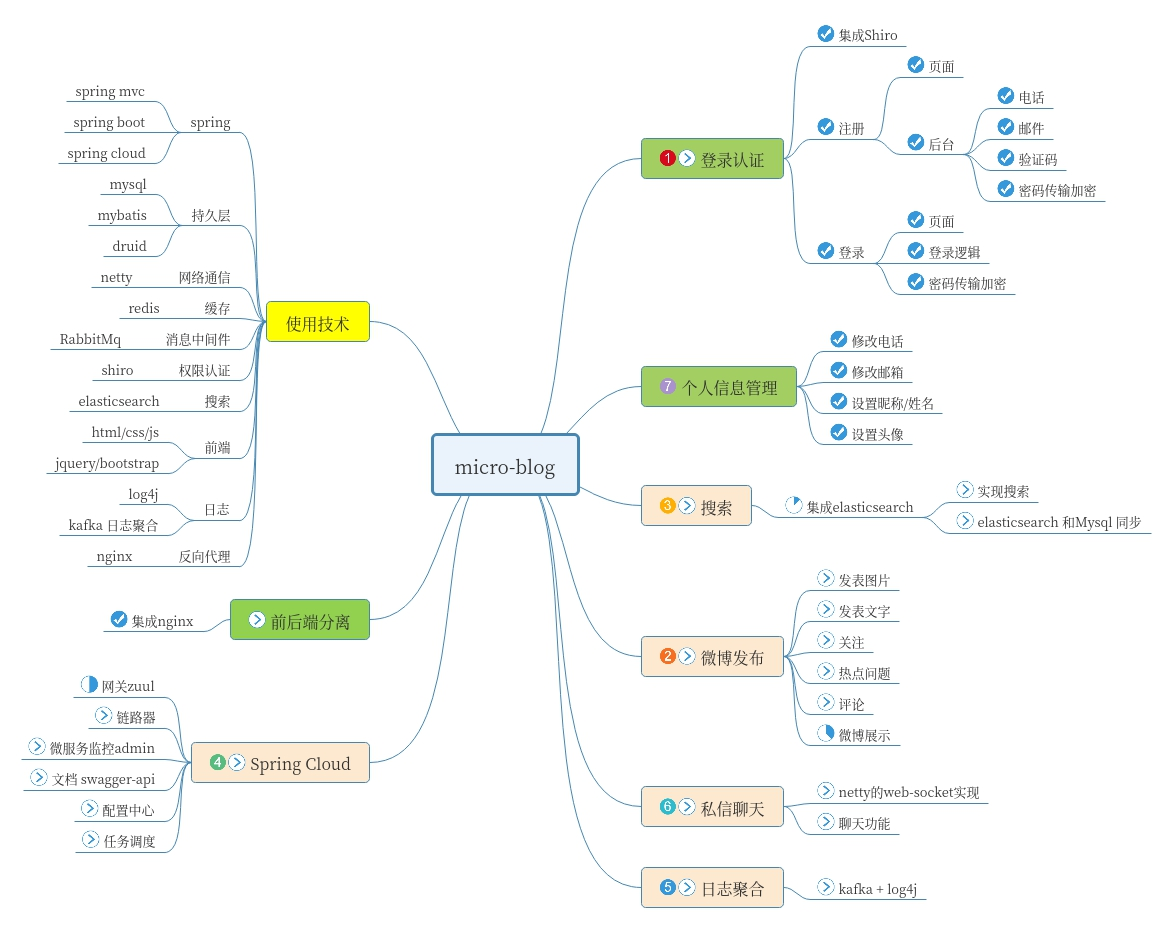
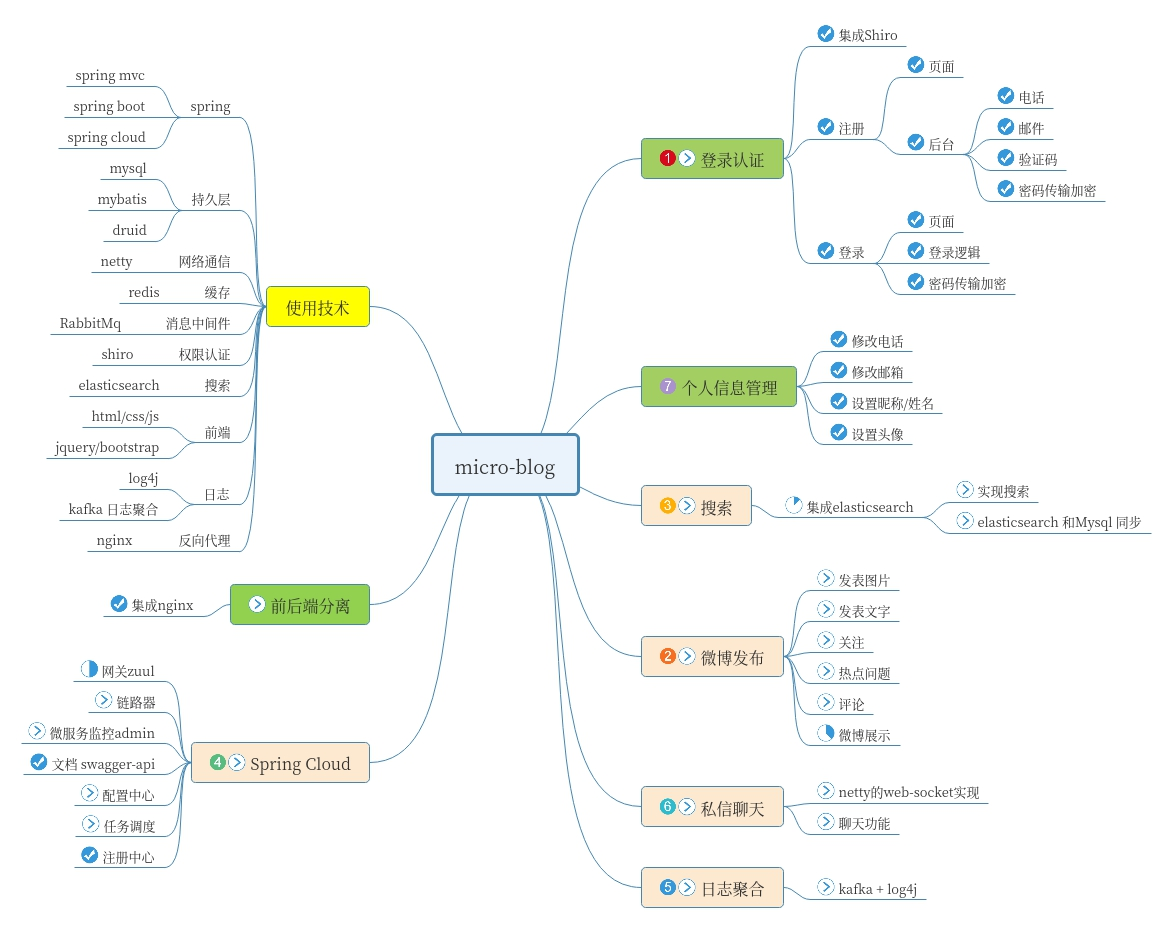
swagger-ui

diff --git a/FrontEnd/microblog/monitor/index.html b/FrontEnd/microblog/monitor/index.html
@@ -28,7 +28,7 @@
     </div>
     <div id="display">
         <iframe src="http://localhost:8001" id="display-center"  class="display-module" style="display: block"></iframe>
-        <iframe src="http://localhost:7300/center" id="display-swagger" class="display-module"></iframe>
+        <iframe src="http://localhost:7300/swagger-ui.html" id="display-swagger" class="display-module"></iframe>
         <iframe src="http://localhost:7300/center" id="display-admin" class="display-module"></iframe>
         <iframe src="http://localhost:7300/center" id="display-zipkin" class="display-module"></iframe>
         <iframe src="http://localhost:7300/center" id="display-druid" class="display-module"></iframe>

diff --git a/microblog-chat/src/main/java/com/cloud/microblog/chat/config/swagger/SwaggerConfig.java b/microblog-chat/src/main/java/com/cloud/microblog/chat/config/swagger/SwaggerConfig.java
@@ -1,4 +1,4 @@
-package com.cloud.microblog.gateway.config.swagger;
+package com.cloud.microblog.chat.config.swagger;
 
 
 import org.springframework.context.annotation.Bean;
@@ -21,8 +21,6 @@ import springfox.documentation.swagger2.annotations.EnableSwagger2;
  * @See:
  * @create: 2018-11-19 14:19
  **/
-
-
 @EnableSwagger2                // Swagger的开关，表示已经启用Swagger
 @Configuration                 // 声明当前配置类
 public class SwaggerConfig {
@@ -33,7 +31,7 @@ public class SwaggerConfig {
                 .apiInfo(apiInfo())
                 .select()
                 //为当前包路径
-                .apis(RequestHandlerSelectors.basePackage("com.cloud.microblog.gateway.controller"))
+                .apis(RequestHandlerSelectors.basePackage("com.cloud.microblog.chat.controller"))
                 .paths(PathSelectors.any())
                 .build();
     }
@@ -41,7 +39,7 @@ public class SwaggerConfig {
     private ApiInfo apiInfo() {
         return new ApiInfoBuilder()
                 //页面标题
-                .title("microblog API 文档")
+                .title("私信模块")
                 //创建人
                 .contact(new Contact("lgj-blog", "https://blog.csdn.net/u011676300", ""))
                 //版本号

diff --git a/microblog-chat/src/main/java/com/cloud/microblog/chat/controller/UserController.java b/microblog-chat/src/main/java/com/cloud/microblog/chat/controller/UserController.java
@@ -7,6 +7,7 @@ import com.cloud.microblog.chat.service.UserService;
 import com.cloud.microblog.common.aop.syslog.anno.PrintUrlAnno;
 import com.cloud.microblog.common.result.BaseResult;
 import com.cloud.microblog.common.result.WebResult;
+import io.swagger.annotations.ApiOperation;
 import org.springframework.beans.factory.annotation.Autowired;
 import org.springframework.web.bind.annotation.RequestMapping;
 import org.springframework.web.bind.annotation.RestController;
@@ -21,6 +22,7 @@ public class UserController {
     @Autowired
     UserService  userService;
 
+    @ApiOperation(value = "/user/list")
     @PrintUrlAnno
     @RequestMapping("/list")
     public BaseResult userList(){

diff --git a/microblog-gateway/gateway-controller/src/main/java/com/cloud/microblog/gateway/config/swagger/DocumentationConfig.java b/microblog-gateway/gateway-controller/src/main/java/com/cloud/microblog/gateway/config/swagger/DocumentationConfig.java
@@ -26,7 +26,8 @@ public class DocumentationConfig implements SwaggerResourcesProvider {
       //  resources.add(swaggerResource("网关中心", "/", "2.0"));
       //  resources.add(swaggerResource("用户权限服务提供系统", "/security-provider-api/v2/api-docs", "2.0"));
       //  resources.add(swaggerResource("任务调度模块", "/scheduler-quartz-api/v2/api-docs", "2.0"));
-        resources.add(swaggerResource("web模块", "/cloud-web/v2/api-docs", "2.0"));
+        resources.add(swaggerResource("私信模块", "/chat/v2/api-docs", "2.0"));
+        resources.add(swaggerResource("网关模块", "/v2/api-docs", "2.0"));
         return resources;
     }
 
